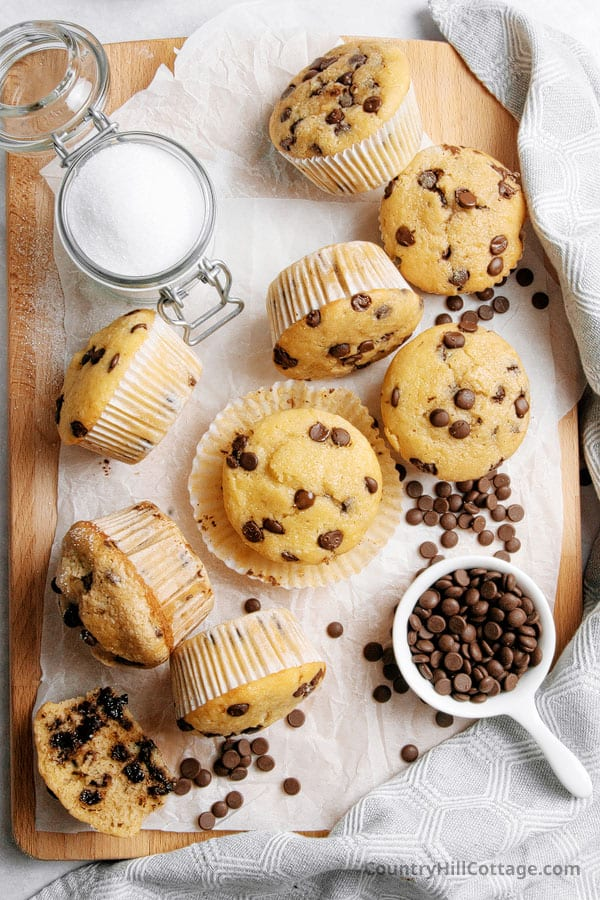
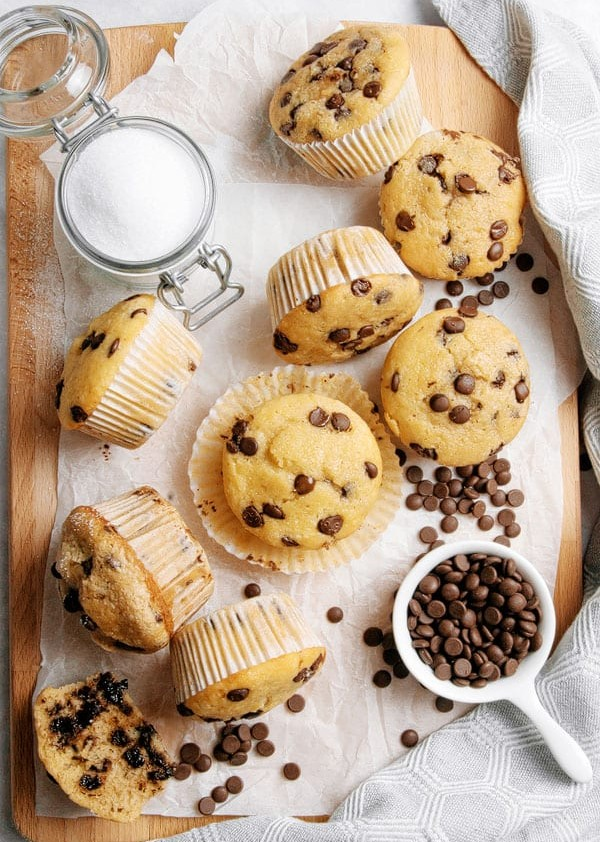
Added main section, images, updated CSS, and made it responsive

diff --git a/src/style.css b/src/style.css
@@ -62,15 +62,59 @@ footer {
   padding: 20px 0;
 }
 
+.img-muffins {
+  max-width: 80%;
+  padding-left: 105px;
+}
+
 .grid {
   display: grid;
-  grid-template-columns: 1fr 2fr 2fr;
+  grid-gap: 70px;
   margin: 20px;
+}
+
+.grid-main {
+  grid-template-columns: 1fr 1fr;
+}
+
+.grid-footer {
+  grid-template-columns: 1fr 2fr 2fr;
 }
 
 section {
   max-width: 1600px;
-  margin: 60px;
+  margin: 80px;
+}
+
+main {
+  background: white;
+  padding: 50px;
+}
+
+main h2 {
+  font-weight: 700;
+  font-size: 15px;
+  line-height: 1.5;
+  letter-spacing: 5px;
+  color: #272044;
+  opacity: 0.6;
+  text-transform: uppercase;
+}
+
+main h3 {
+  font-weight: 700;
+  font-size: 40px;
+  line-height: 1.5;
+  color: #272044;
+  margin: 0;
+}
+
+main p {
+  font-weight: 400;
+  font-size: 16px;
+  line-height: 1.5;
+  color: #272044;
+  opacity: 0.9;
 }
 
 footer ul {
@@ -91,7 +135,6 @@ footer h3 {
 
 footer p {
   font-size: 16px;
-  margin-right: 40px;
   line-height: 24px;
   color: rgb(255, 227, 176);
 }
@@ -107,20 +150,37 @@ footer a {
   }
 
   header h1 {
-    font-size: 48px;
+    font-size: 43px;
   }
 
   header h2 {
-    font-size: 24px;
+    font-size: 18px;
   }
 
   header h3 {
-    font-size: 18px;
+    font-size: 14px;
     margin-bottom: -15px;
   }
 
   header a {
     font-size: 14px;
     padding: 12px 25px;
+  }
+
+  .grid {
+    grid-template-columns: 1fr;
+  }
+
+  .img-muffins {
+    max-width: 100%;
+    padding: 0;
+  }
+
+  main h2 {
+    font-size: 13px;
+  }
+
+  main h3 {
+    font-size: 36px;
   }
 }

diff --git a/index.html b/index.html
@@ -20,9 +20,34 @@
         <h2>Where you can make anything your heart desires</h2>
         <a href="#">Learn More</a>
       </header>
+      <main>
+        <section class="grid grid-main">
+          <div>
+            <img src="images/muffins.jpg" alt="muffins" class="img-muffins" />
+          </div>
+          <div>
+            <h2>Why Baking?</h2>
+            <h3>Baking - The Sweet Aroma of Delicious Goods</h3>
+            <p>
+              Baking is a process of cooking by dry heat especailly in some kind
+              of oven and is possiblely the oldest cooking method. Bakery
+              products can range from bread to pastries to cookies. By the
+              mid-20th century, the baking industry had improved signaificantly
+              through technology and in the way they process bakery foods with
+              vitamins and minerals in large and small productions.
+            </p>
+            <p>
+              Baking has not only provided us with the sweetest treats and
+              teeths for the tooth fairy. It is also, an activity many people
+              enjoy as a hobby or bonding experience. I, for one, enjoy it as a
+              hobby and a way to share delicious comfort foods with others.
+            </p>
+          </div>
+        </section>
+      </main>
     </div>
     <footer>
-      <section class="grid">
+      <section class="grid grid-footer">
         <div>
           <h3>More About Baking</h3>
           <ul>
